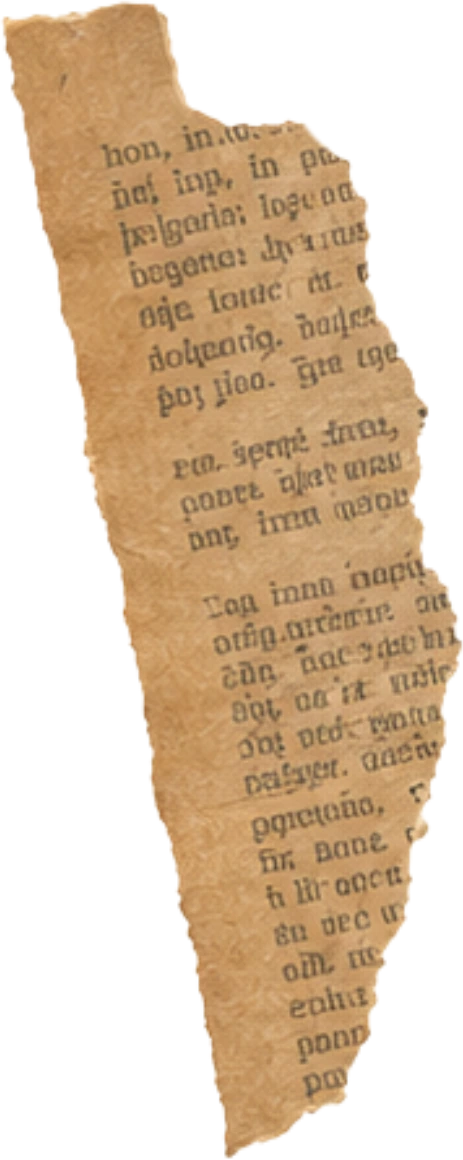
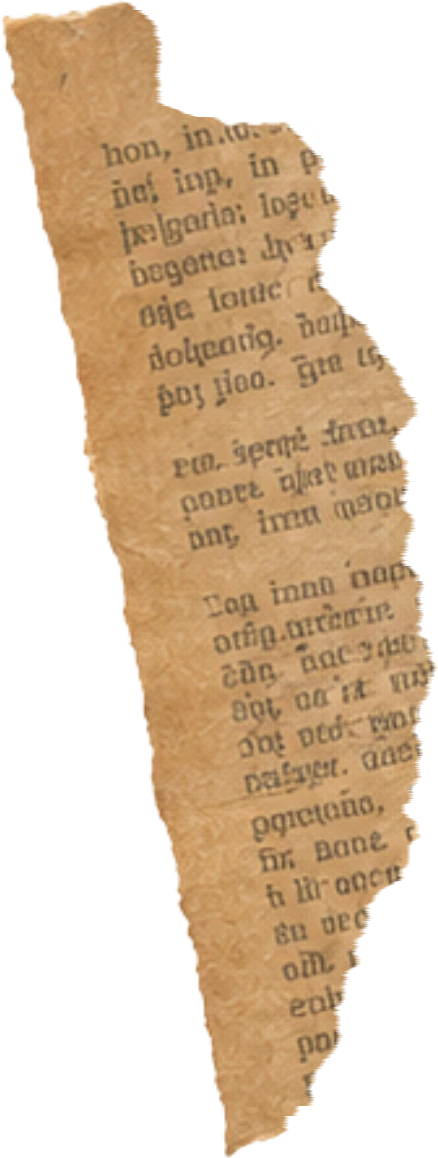
fix(time-venue): xé lại cạnh phải mẩu báo, đặt lại cho ăn với phong bì
Ba cạnh của mẩu báo là mép giấy rách thật, riêng cạnh phải là đường cắt
thẳng băng còn lại từ lúc tách khỏi sheet. Đặt cạnh phong bì là lộ ngay
ra đây chỉ là ảnh dán, nên xé lại cạnh đó ngay trong khâu dựng asset:
biên răng cưa ghép từ ba sóng sin lệch pha cộng nhiễu trôi chậm (hệ số
nhớ 0.99 — nhiễu trôi nhanh cho ra răng lược chứ không phải giấy rách),
thêm jitter dưới 1px cho thớ giấy và vuốt mềm 2px ở mép. PRNG gieo hạt
cố định nên chạy lại script vẫn ra đúng một mẩu giấy.

Hai mẩu báo cũng thu nhỏ, hạ xuống và nghiêng thêm để tựa vào vai phong
bì thay vì chĩa lên trời.

diff --git a/src/components/sections/TimeVenue.tsx b/src/components/sections/TimeVenue.tsx
@@ -55,13 +55,13 @@ export function TimeVenue({ party = PARTIES.intimate }: { party?: Party } = {}) 
           <div className="collage">
             {/* Lớp dưới cùng: hai mẩu báo cũ thò ra hai bên phong bì. Không
                 đặt zIndex nên chúng nằm ở z-0, dưới mọi thứ còn lại. */}
-            <Decor id="tv-news" width="19%" left="4%" top="44%" rotate={-9} />
+            <Decor id="tv-news" width="17%" left="3%" top="47%" rotate={-16} />
             <Decor
               id="tv-news"
-              width="17%"
-              right="4%"
-              top="46%"
-              rotate={8}
+              width="15%"
+              right="3%"
+              top="49%"
+              rotate={14}
               flip
             />
 
